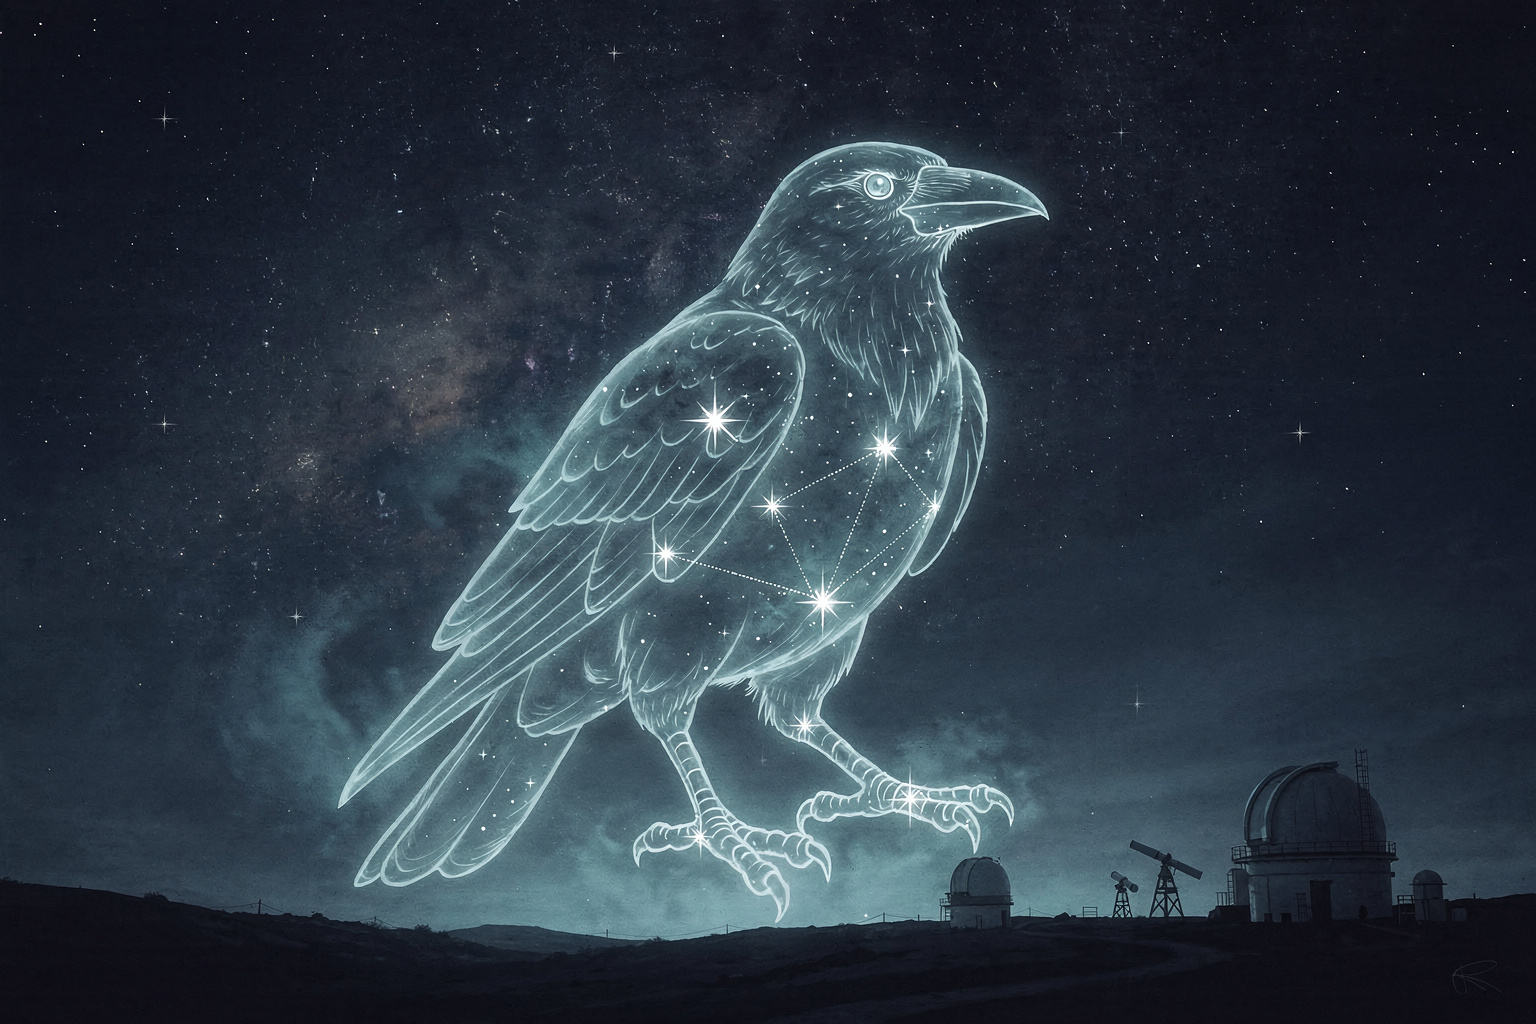
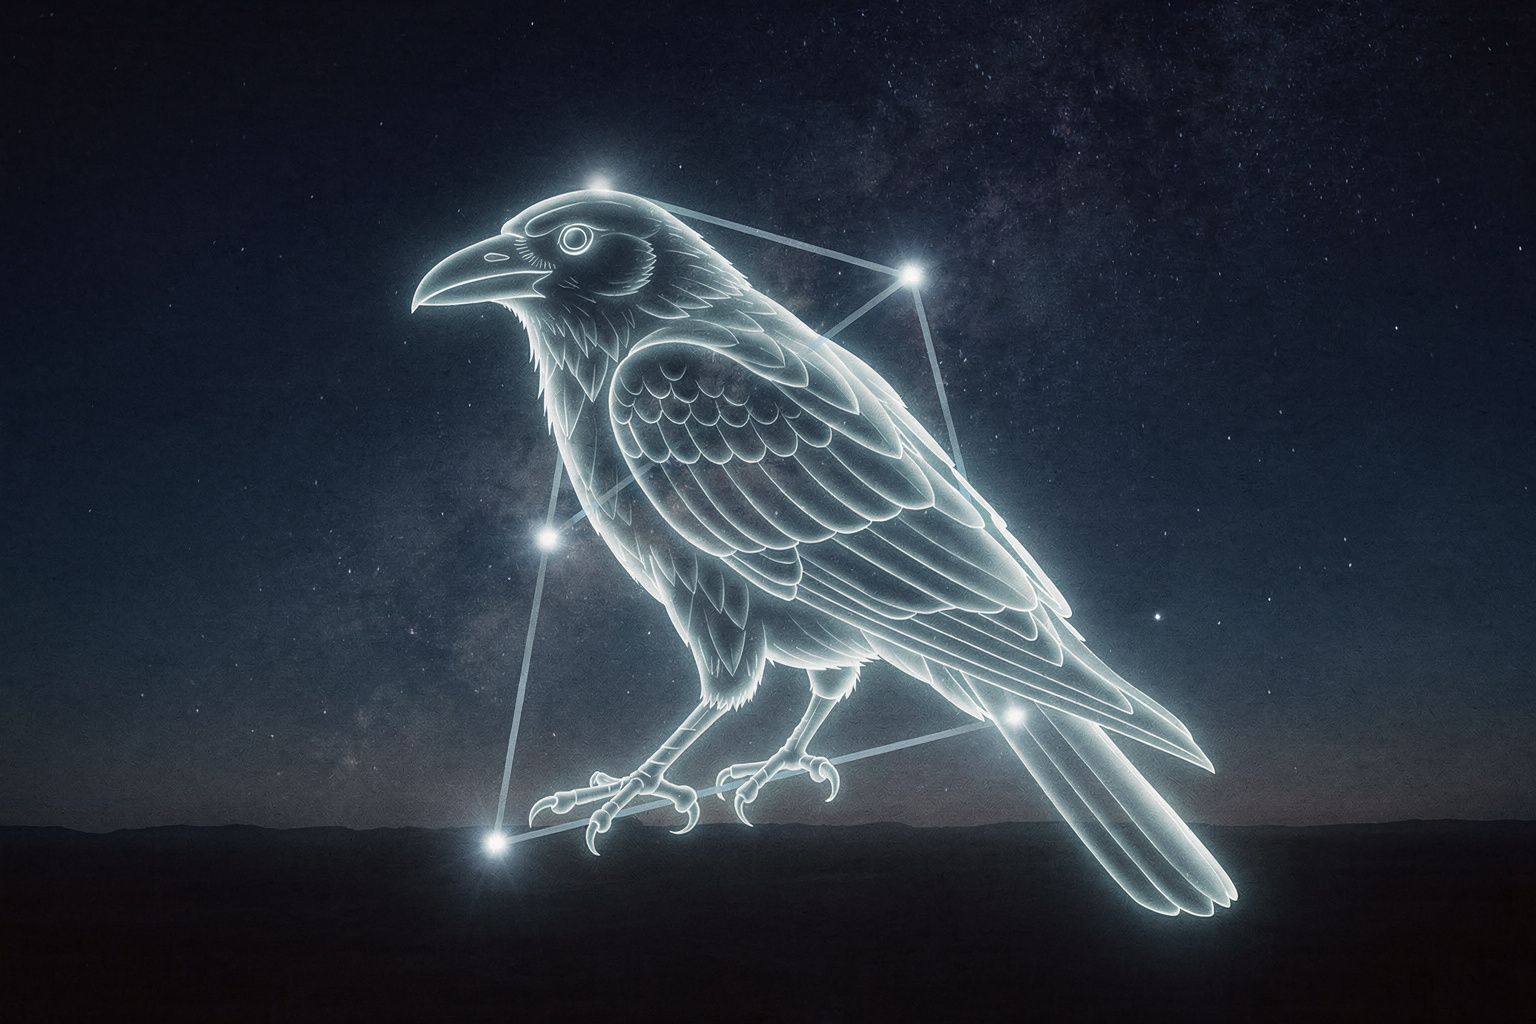
Night hero: roll the registered spectral creatures out to all 18 constellations
Completes the registered-hero pipeline across the whole set. Each figure's
creature-skeleton (built from its real projected stars) is fed to Flux, which paints
a luminous spectral creature over it while keeping the star positions; the app then
overlays the real stars (white 4-point sparkles) on top.

- All 18 constellations are now REG_HERO (was just Scorpius). Every
  night-heroes/<slug>.jpg is replaced with a new spectral creature built on its real
  stars: the lion, hunter, twins, swan, eagle, crane, crow, centaur, archer, bull,
  dog, ship's keel, sails, harp, Southern Cross, Southern Triangle and maiden.
- A single REG_SKEL_PAD (35.156) replaces the per-figure REG_PAD map -- every skeleton
  is built at 1536x1024 pad 180, so one overlay inset registers them all.

Pipeline: a generalised GDI+ skeleton renderer (constellation lines as glowing limbs +
prominent stars) -> flux2_max with a per-figure prompt to enhance the exact skeleton
and keep the stars -> download -> overlay the real stars. Generations were batched
(up to 8 per call); a few that silently never reached "ready" were re-generated.

Registration: exact for clean single-body figures (Scorpius, Leo, Orion); complex
multi-limb ones (Centaurus, Taurus) get compacted slightly by Flux, so a few extremity
stars (horn-tips, hooves) drift off the painted body -- the app still overlays them at
their true positions. Re-roll a tighter skeleton per figure if wanted.
[…]

diff --git a/index.html b/index.html
@@ -2678,8 +2678,13 @@ function figureAnchor(f){
 // top so they land EXACTLY on the painting's stars. `REG_HERO` marks figures wired this
 // way; `REG_PAD` is the projection inset (in the 300-px box) matching the skeleton the
 // painting was built from, so the overlay registers pixel-exact. Scorpius is the proof.
-const REG_HERO={scorpius:1};
-const REG_PAD={scorpius:35.16}; // = skeleton pad 180 / (1536/300)
+const REG_HERO={scorpius:1,crux:1,centaurus:1,orion:1,'canis-major':1,sagittarius:1,leo:1,
+  taurus:1,gemini:1,carina:1,'triangulum-australe':1,grus:1,vela:1,corvus:1,cygnus:1,lyra:1,
+  aquila:1,virgo:1};
+// Every skeleton is built at 1536×1024 with pad 180, so the in-app overlay uses the
+// matching inset (180 ÷ 5.12 = 35.156 in the 300-px box) — its real stars then land
+// exactly on the painting's stars for ALL registered figures.
+const REG_SKEL_PAD=35.156;
 function isRegHero(slug){ return !!REG_HERO[slug]; }
 // Registered figure for the hero stage. Projects the figure's FULL real-star list
 // (cos-dec-corrected RA, north up) into the 3:2 stage box and draws it as two
@@ -2695,7 +2700,7 @@ function figureSVG(slug,ac){
   const reg=isRegHero(slug);
   // Registered-hero figures use the projection inset the Flux painting was built from,
   // so the overlaid real stars land exactly on the painting's stars.
-  const W=300,H=200,pad=REG_PAD[slug]||30;
+  const W=300,H=200,pad=reg?REG_SKEL_PAD:30;
   const {pts,lines}=projFigure(f,W,H,pad);
   const anc=figureAnchor(f); let ai=0; for(let i=0;i<f.s.length;i++){ if(f.s[i][0]===anc[0]){ ai=i; break; } }
   const ap=pts[ai];

diff --git a/CLAUDE.md b/CLAUDE.md
@@ -67,26 +67,33 @@ Hosted on GitHub Pages at https://foxorama.github.io/golf-finder/ (deploys from
   limbs given volume by a stack of blurred rarity-coloured strokes (outer aura → volume →
   body) under a bright starlight core, with radiant orbs at each star — so the thing sitting
   exactly on the real stars reads as the figure itself, and it (not the painting) carries the
-  match. **THE registered-hero pipeline (`REG_HERO` figures — Scorpius is the first):** the
+  match. **THE registered-hero pipeline — ALL 18 constellations now use it (`REG_HERO`):** the
   breakthrough is that **Flux *can* pose a painting onto the exact stars if you feed it a
   CREATURE-shaped skeleton, not bare dots.** (Bare dots/lines → it paints a generic, often
   mirrored figure — that earlier failure is real, see PR #138; the fix is a recognizable
-  skeleton.) Recipe per figure: (1) render a registered **creature-skeleton** from its real
-  projected stars via GDI+ at 1536×1024 (a glowing body curve through the star spine + the
-  appendages — claws/limbs/wings — with the bright stars marked); (2) `request_upload_url` →
-  PUT (works on `app.bfl.ai`, force TLS1.2 in PS5.1) → `generate_image(flux2_max)` with a
-  prompt to *enhance this exact skeleton, keep the shape and star positions*; (3) `get_history`
-  → download `image_url` to `night-heroes/<slug>.jpg`; (4) add the slug to `REG_HERO` and its
-  projection inset to **`REG_PAD`** (= skeleton-pad ÷ 5.12, so the in-app overlay's real stars
-  land on the painting's stars — verify with `projFigure(f,300,200,REG_PAD)` ×5.12 ≈ the
-  skeleton's `projFigure(f,1536,1024,skelpad)`, error <0.1px). `REG_HERO` figures show the Flux
-  creature at **full strength** (`.reg` class, `heroAuraFull` blooms to ~0.96, no
-  `HERO_AURA_ADJ`) with `.fig-hero` empty (the creature IS the hero); the real stars + lines
-  overlay on top and land exactly on the painting's stars. Verify registration without a
-  screenshot: GDI+-composite red rings at the `projFigure(…,skelpad)` star positions over the
-  downloaded jpg — they must sit on the painted stars. **Legacy (non-`REG_HERO`) figures** keep
-  the dim aura (`brightness ~0.7 / opacity ~0.62`) + the enriched `.fig-hero` luminous form +
-  **`HERO_AURA_ADJ[slug]`** (a per-figure `scaleX(-1)`/`scale`/`translate` to orient the old
+  skeleton.) Recipe per figure: (1) render a **creature-skeleton** from its real projected
+  stars via GDI+ at **1536×1024, pad 180** — the generalised renderer draws the constellation
+  `l` lines as thick glowing limbs + prominent bright stars (enough armature for Flux); a few
+  figures (Scorpius) get bespoke appendages (claws/curled tail) for clarity. Pull the projected
+  coords straight from `projFigure(f,1536,1024,180)` via `preview_eval` so they match the app
+  exactly. (2) `request_upload_url` → PUT (works on `app.bfl.ai`, force TLS1.2 in PS5.1) →
+  `generate_image(flux2_max)` with a per-figure prompt naming the creature + *enhance this exact
+  skeleton, keep the shape and star positions*. **Batch it:** call `request_upload_url` ×N in
+  parallel, one PS PUT loop, then `generate_image` with up to 8 `requests`. (Watch out: some of
+  an 8-batch can silently never reach `ready` — re-upload + re-gen those.) (3) `get_history` →
+  download `image_url` to `night-heroes/<slug>.jpg`. (4) the slug goes in `REG_HERO`; every
+  skeleton uses pad 180 so the single constant **`REG_SKEL_PAD = 35.156`** (= 180 ÷ 5.12) is the
+  in-app overlay inset for all of them. `REG_HERO` figures show the Flux creature at **full
+  strength** (`.reg` class, `heroAuraFull` blooms to ~0.96, no `HERO_AURA_ADJ`) with `.fig-hero`
+  empty (the creature IS the hero); the real stars (white 4-point sparkles) + lines overlay on
+  top. Verify registration without a screenshot: GDI+-composite red rings at the
+  `projFigure(f,1536,1024,180)` star positions over the downloaded jpg — they must sit on the
+  painted stars. **Registration varies:** clean single-body figures (Scorpius, Leo, Orion) hold
+  the stars exactly; complex multi-limb ones (Centaurus, Taurus) get compacted by Flux so a few
+  extremity stars (horn-tips, hooves) drift off the painted body — the app overlay still draws
+  them at their TRUE positions, so re-roll a tighter skeleton if a specific figure bothers you.
+  **(Legacy fallback, now unused by any figure)** the dim aura + enriched `.fig-hero` luminous
+  form + **`HERO_AURA_ADJ[slug]`** (a per-figure `scaleX(-1)`/`scale`/`translate` to orient the old
   painting roughly behind the figure — Orion & Leo line up well, Sagittarius needed a flip).
   If the `<img>` 404s, `.has-hero` drops and the figure shows on the dark bg. See
   `night-heroes/HERO-ART-SPEC.md`. The whole

diff --git a/.claude/skills/astral-heroic-card-art/SKILL.md b/.claude/skills/astral-heroic-card-art/SKILL.md
@@ -60,13 +60,14 @@ the heroic frame.
   (the same stars lit into a glowing rarity figure) — from **one `projFigure` projection, so the
   stars never move between phases**. `.fig-hero` is drawn as a **luminous astral *form*** —
   volumetric glowing limbs (a stack of blurred rarity strokes) + bright starlight core + radiant
-  star-orbs — so the figure ON the real stars carries the match. **Registered-hero figures
-  (`REG_HERO`, Scorpius first)** go further: a creature-shaped skeleton built from the real stars
-  is fed to Flux (which DOES register when given a creature, not bare dots), and the resulting
-  spectral painting shows at **full strength** (`.reg`, `heroAuraFull`) with `.fig-hero` empty —
-  the real stars overlay on top via the matched **`REG_PAD`** inset and land exactly on the
-  painting's stars. Legacy figures keep the **dim aura** oriented behind the enriched `.fig-hero`
-  by **`HERO_AURA_ADJ[slug]`** (a CSS flip/scale/shift). Full pipeline + verify recipe in
+  star-orbs — so the figure ON the real stars carries the match. **ALL 18 constellations now use
+  the registered-hero pipeline (`REG_HERO`):** a creature-shaped skeleton built from the real
+  stars is fed to Flux (which DOES register when given a creature, not bare dots), and the
+  resulting spectral painting (a luminous cyan-white creature + Milky-Way/horizon) shows at
+  **full strength** (`.reg`, `heroAuraFull`) with `.fig-hero` empty — the real stars (white
+  4-point sparkles) overlay on top via the matched **`REG_SKEL_PAD` (35.156)** inset. The dim-aura
+  + enriched-`.fig-hero` + **`HERO_AURA_ADJ`** path is the now-unused legacy fallback. Full
+  pipeline + verify recipe (incl. the registration-varies caveat) in
   `CLAUDE.md`; missing/404 art drops `.has-hero` and the figure shows on the dark bg.
   The astral chart must draw the **whole figure, not a bright sub-asterism** (Sagittarius = the full archer,
   not just the Teapot); verify any new star's J2000 coords against `star-catalog-deep.json`. See
